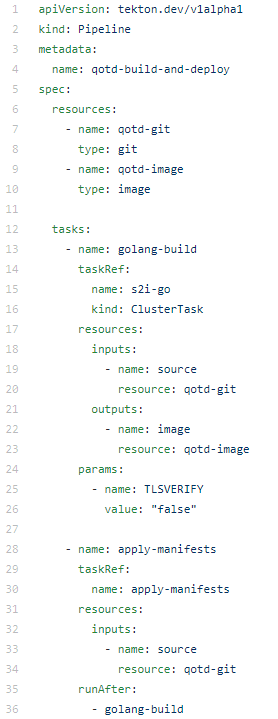
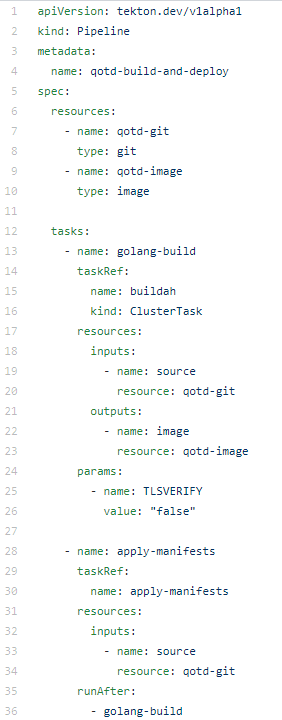
Added optional ending

Changed region(s): [[0.1727, 0.306, 0.8921, 1.0], [0.1151, 0.0, 0.8921, 0.2754], [0.0, 0.0, 0.0576, 1.0]]

diff --git a/README.md b/README.md
@@ -33,7 +33,7 @@ The following is a list of the environments and/or tools are necessary to perfor
 1. Tekton command line interface (CLI), `tkn`
 1. OpenShift CLI, `oc`
 1. Git
-1. Git repo at https://github.com/redhat-developer-demos/openshift-pipelines-tutorial.git. You'll need to clone this repo to your machine.
+1. Git repo at https://github.com/redhat-developer-demos/openshift-pipelines-tutorial.git. You'll need to fork this repo and then clone this repo to your machine.
 
 ### Prerequisite #1: A terminal session on your PC
 You'll need to be able to run commands at the command line on your PC. Note that this workshop works with Linux and macOS (bash) and Windows (PowerShell). Where any differences occur in this workshop, commands for both environments will be supplied.
@@ -136,7 +136,9 @@ This section declares what is done and in what order.
 
 Line 13 is a name that we've assigned; it could just as well be called 'foo'. The "taskRef", in lines 14 through 16, is where we call out exactly what to do and where to find it. 
 
-The name "s2i-go" (line 15) is a built-in "ClusterTask" (line 16), a task that is built into the OpenShift Pipelines. You can see this and all the other ClusterTasks by running the command `tkn clustertask ls`. A ClusterTask is available across *all* namespaces in the OpenShift cluster, while tasks that we have created are limited to the namespace in which they are created.
+The name "buildah" (line 15) is a built-in "ClusterTask" (line 16), a task that is built into the OpenShift Pipelines. You can see this and all the other ClusterTasks by running the command `tkn clustertask ls`. A ClusterTask is available across *all* namespaces in the OpenShift cluster, while tasks that we have created are limited to the namespace in which they are created.
+
+I'm using buildah to build the image. Since I have the file "Dockerfile" in my source code, this is a perfect choice. I can use the Dockerfile while developing and testing on my local machine, and then when I push the source to the git repo and use it in my pipeline, I can be assured the same build steps and resulting image will be used. I'm in control, and I like that.
 
 In line 30 we declare a task that we created (that happens later in this workshop). Notice line 36, which specifies that this task runs only after the task "golang-build" is completed.
 
@@ -222,4 +224,19 @@ Valid routes include:
 "/quotes/4"  
 "/quotes/5"  
 
-Example:
+Example:  
+`curl foo/quotes/random`
+
+### Workshop Optional Step 8: Push changes and see results
+
+This section is purposely kept terse. It is assumed that you have the technical skills for perform the steps listed.
+
+Step 1. Fork the repo at https://github.com/redhat-developer-demos/qotd.git to your own Github account.  
+Step 2. Clone your repo to your local machine.  
+Step 3. Change the source code in "main.go" in the "qotd" repo that you forked and cloned to your local PC.  
+Step 4. Commit and push the change to your repo.  
+Step 5. Delete the qotd-git resource: `tkn resource delete qotd-git`  
+Step 6. Create the resource "qotd-git", pointing it to your repo. `tkn resource create`  
+Step 2. Run the pipeline start command again. `tkn pipeline start qotd-build-and-deploy`    
+Step 3. When the build is complete, view the resulting changes.  
+
